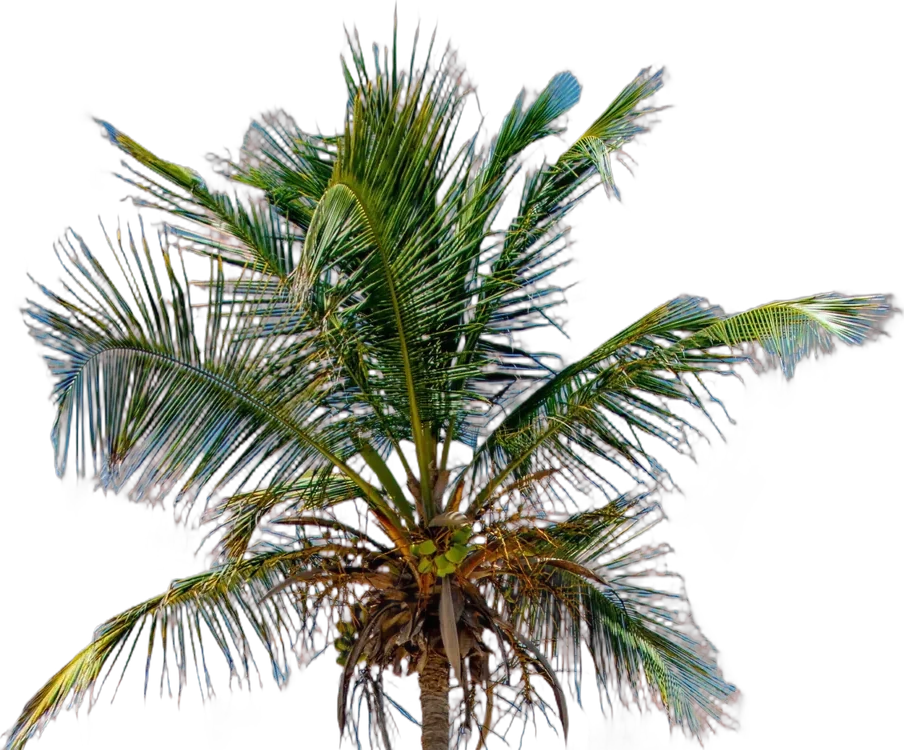
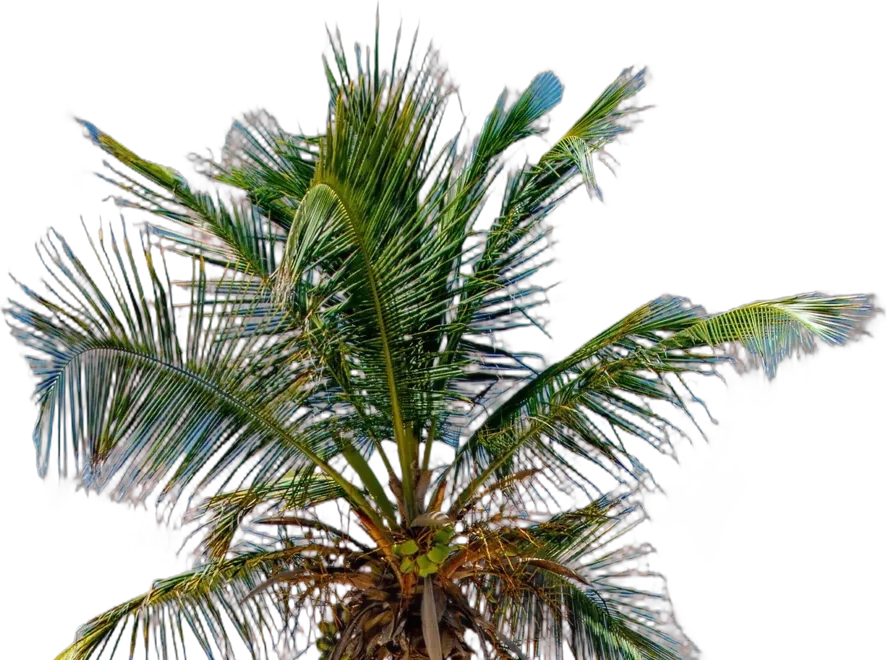
Actually remove the overhang's trunk this time (Codex review catch)
The previous commit's crop still left a genuine ~30px-wide solid trunk
column right at the new bottom edge -- only the diagonal dangling
portion had been removed, not the trunk entirely, despite the commit
message claiming otherwise. Caught in PR review, not by the
render-and-look pass that should have caught it: that check confirmed
the old dangling trunk was gone but didn't re-scan the whole resulting
image for anything else, the same "stop looking after finding one
problem" failure mode this whole saga kept running into.

Cropped further, well above where the trunk column's constant width
starts flaring into the much wider, irregular frond-base mass. Verified
this time by measuring the bottom row's contiguous opaque-pixel run
lengths directly (no dominant narrow column remains) before trusting
the visual re-render, not only after it.

diff --git a/art/CREDITS.md b/art/CREDITS.md
@@ -323,6 +323,27 @@ attribution legally required, credited anyway):
   inspecting a crop of just the cutout each time, not by reasoning about
   it.
 
+  First attempt at this crop (removing everything below y=750 of the
+  original) still left a real problem, caught in PR review rather than
+  by the render-and-look pass that should have caught it: a genuine
+  solid trunk segment (~30px wide at this resolution, a single
+  well-defined column distinct from the surrounding scattered frond
+  tips -- confirmed by measuring contiguous opaque-pixel run lengths
+  along the crop's bottom row, not just eyeballing it) still remained
+  right at the new bottom edge. The render check that round was real but
+  incomplete -- it confirmed the diagonal dangling trunk from the
+  original crop was gone, but didn't re-scan the whole resulting image
+  for anything else that might still read as a hard cutoff, the same
+  "stop looking after finding one problem" failure this whole saga kept
+  running into. Cropped further (removing another ~90px, well above
+  where that trunk column's constant ~30px width starts to flare out
+  into the much wider, more irregular frond-base mass) to remove that
+  column entirely. Re-verified the same way, but this time by measuring
+  the bottom row's contiguous run lengths directly (no single run over
+  ~100px wide, all irregular/varying widths consistent with frond tips,
+  not one dominant narrow column) before trusting the visual check, not
+  only after it.
+
 Sourcing note, `palm-overhang.webp`: `rembg` alone left a visible blue
 color-fringe halo along every frond edge, bleeding in from the photo's
 own saturated blue sky background -- alpha erosion alone (shrinking the
